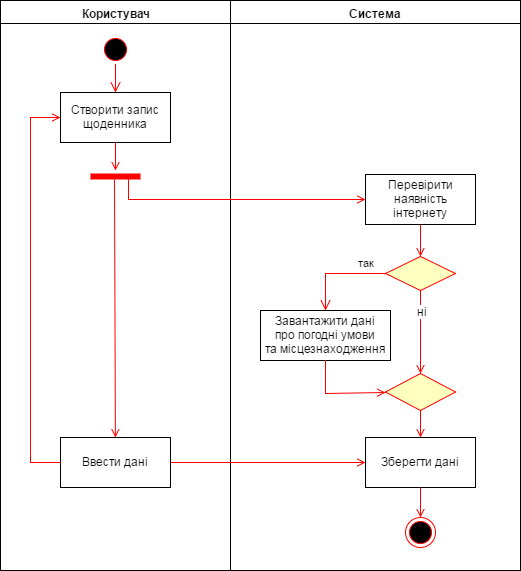
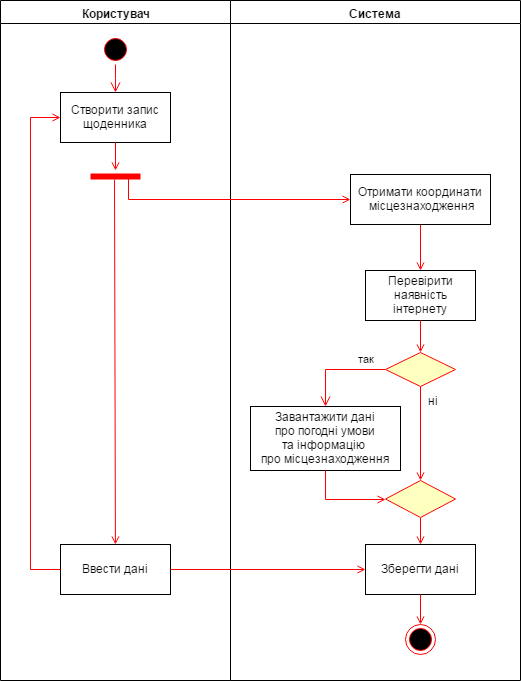
merged sections 2 and 3. genius genius GENIUS

diff --git a/sections/2-3.tex b/sections/2-3.tex
@@ -1,0 +1,251 @@
+\documentclass[../main.tex]{subfiles}
+
+\begin{document}
+
+\chapter{АНАЛІЗ І ПРОЕКТУВАННЯ ANDROID-ЩОДЕННИКА ДЛЯ МАНДРІВНИКІВ}
+
+\section{Формування та аналіз вимог до Android-щоденника мандрівника}
+
+\subsection{Формування вимог до Android-щоденника для мандрівників}
+
+Розглянувши існуючі на цей час програмні продукти, такі як~щоденники для мандрівників, проаналізувавши їх, та виявивши як~позитивні так і негативні сторони, можна сформувати задачі розробки. В~узагальненому вигляді такою задачею є створення додатку, що буде забезпечувати можливість ведення щоденнику, запису треку переміщень та~планування поїздок.
+
+При проектуванні програмного продукту необхідно забезпечити наступні можливості:
+\begin{enumerate}
+	\item Авторизація за допомогою облікового запису Google.
+	\item Можливість створення подорожі.
+	\item Можливість створення записів щоденника.
+	\item Можливість створення записів планувальника.
+	\item Можливість встановлення нагадувань.
+	\item Можливість запису треку переміщень.
+\end{enumerate}
+
+\subsection{Аналіз вимог до Android-щоденника мандрівника}
+
+Аналіз вимог є частиною процесу розробки програмного забезпечення, що включає в себе збір вимог щодо програмного забезпечення, їх систематизацію, виявлення взаємозв'язків, а також документування.
+
+Авторизація за допомогою облікового запису Google.
+Для того, щоб користувач мав доступ тільки до своїх даних, та мав можливість синхронізації з іншими пристроями, він повинен мати свій обліковий запис в базі даних. Оскільки в якості бази даних використовується Firebase, маємо такі варіанти авторизації користувачів: 
+\begin{itemize}[label={--}]
+	\item за допомогою соціальних мереж (Google, Facebook, Twitter);
+	\item за допомогою акаунта GitHub;
+	\item за допомогою адреси електронної пошти;
+	\item анонімна авторизація.
+\end{itemize}
+
+Майже всі користувачі Android-пристроїв мають акаунт Google, тому було вирішено використовувати саме цей метод авторизації. В майбутньому можуть бути додані будь-які інші методи авторизації.
+
+%Можливість створення подорожі.
+Оскільки розроблюваний додаток є щоденником для мандрівників, користувач повинен мати змогу створювати подорожі. Створені подорожі слугують категоріями, в яких можуть знаходитися записи щоденника та планувальника. Також трек переміщень пов'язаний з певною мандрівкою.
+
+%Можливість створення записів щоденника.
+Користувач, який встановив Android-щоденник, очікує від нього можливість ведення цього щоденника, тому однією з головних вимог такого додатку є змога створення записів у щоденнику. Для створення запису, користувачу не~обов'язково потрібно мати створені подорожі. Записи без вказаної подорожі будуть розміщуватися в загальному щоденнику.
+
+%Можливість створення записів планувальника.
+Важливим пунктом для мандрівників є планування поїздок, тому користувач повинен мати змогу створювати записи планувальника, в яких він зможе описати все, що йому потрібно зробити при плануванні подорожі.
+
+%Можливість встановлення нагадувань.
+При підготовці до подорожі важливо не забути завершити заплановані справи та зібрати необхідні речі чи документи, тому користувач повинен мати змогу встановлювати нагадування для записів планувальника. Нагадування можуть бути встановлені на конкретний час, чи по приближенню до~вказаного місця.
+
+%Можливість запису треку переміщень.
+Користувач повинен мати змогу записувати трек свого переміщення. Це допоможе не забути якими маршрутами він рухався, та  які місця відвідав. Запис треку можливий при наявності активної подорожі. Для забезпечення цієї вимоги необхідно передбачити механізм запису місцезнаходження користувача в період його подорожі до бази даних.
+
+%\subsection{Об'єктний аналіз вимог Android-щоденника для мандрівників}
+\subsection{Формування вимог до Android-щоденника за допомогою діаграми прецедентів}
+
+На основі визначених вимог було побудовано діаграму прецедентів (див. рис. \ref{diagram:usecase}), яка дозволить отримати візуальне уявлення про вимоги користувачів.
+
+Користувач повинен мати можливість авторизуватися в додатку за~допомогою акаунту Google, після авторизації, дані про нього зберігаються до бази даних. Також, користувач повинен мати змогу створювати подорожі, після чого йому відкривається можливість запису треку переміщень, та записи щоденника. При створенні запису планувальника повинна бути можливість встановлення нагадування.
+
+\begin{figure}[H]
+	\centering
+	\includegraphics[width=1\textwidth]{diagram_usecase}
+	\caption{Механізм роботи з додатком у вигляді діаграми прецедентів}
+	\label{diagram:usecase}
+\end{figure}
+
+%% TODO а воно точно нормальний вигляд має на папері? Такі ігри з кольорами часто потім мають препаршивий вигляд на папері, та й взагалі не~рекомендується перевантажувати дипломну хитрими форматуваннями
+
+%% TODO хоч я і паршиво для керівника дипломної роботи знаю ці діаграми, але факт, що акторами повинні бути лише зовнішні щодо розроблюваної системи чинники я все-таки знаю точно. До такого ТОЧНО ПРИЧЕПЛЯТЬСЯ. Якщо точно-точно нема користувачів з різними правами доступу щоб робити їх різними акторами, то, мабуть, треба зробити іншими акторами звернення до сторонніх систем... Хоча це краще ще десь уточнити.
+
+
+\subsection{Формування та аналіз вимог до Android-щоденника за допомогою діаграми діяльності}
+На основі первинних вимог були розроблені наступні детальні вимоги:
+\begin{enumerate}
+	\item Надати можливість редагувати подорож.
+	\item Надати можливість видаляти подорож.
+	\item Надати можливість редагувати запис щоденника.
+	\item Надати можливість видаляти запис щоденника.
+	\item Надати можливість редагувати запис планувальника.
+	\item Надати можливість видаляти запис планувальника.
+	\item Надати можливість додавати зображення до запису щоденника.
+	\item Надати можливість переглядати карту з треком і мітками.
+	\item Надати можливість обирати подорож для запису щоденника та~планувальника.
+	\item Надати можливість встановлювати активну подорож.
+	\item Надати можливість синхронізувати дані між пристроями.
+	\item Надати можливість ділитися записами щоденника через інші додатки.
+	\item Надати можливість ділитися окремими зображеннями з запису щоденника через інші додатки.
+	\item Надати можливість додавати списки з прапорцями в запис планувальника.
+	\item Надати можливість системі автоматично завантажувати дані про погодні умови та місцезнаходження при створенні запису щоденника.
+\end{enumerate}
+
+Моделюючи поведінку системи, яка проектується або проводиться її~аналіз, постає необхідність деталізувати особливості алгоритмічної і логічної реалізації виконуваних системою операцій. Для такого моделювання в мові UML використовуються діаграми діяльності.
+
+У контексті мови UML діяльність (activity) є деякою сукупністю окремих обчислень, що виконуються автоматом. При цьому окремі елементарні обчислення можуть наводити до деякого результату або дії (action). На діаграмі діяльності відображається логіка або послідовність переходу від однієї діяльності до іншої, при цьому увага фіксується на~результаті діяльності. Сам же результат може привести до зміни стану системи або повернення деякого значення.
+
+Діаграма діяльності створення нового запису щоденника, що~відображає поведінку проектованого додатка, подана на рис. \ref{diagram:activity}.
+
+\begin{figure}[H]
+	\centering
+	\includegraphics[width=0.8\textwidth]{diagram_activity}
+	\caption{Механізм створення запису щоденника у вигляді діаграми діяльності}
+	\label{diagram:activity}
+\end{figure}
+
+В процес створення запису щоденника залучений як користувач, так і~система. Після того, як користувач вирішує створити новий запис, система отримує координати місцезнаходження користувача, та, при наявності інтернет з'єднання, завантажує інформацію про місцезнаходження та дані про погодні умови в цьому місці. Після введення користувачем потрібних йому даних, та завершення створення запису, дані зберігаються.
+
+\subsection{Аналіз вимог до Android-щоденника мандрівника за допомогою діаграми послідовності}
+На базі отриманих даних, і заради детальнішого моделювання була розроблена діаграма послідовностей для процесу сотворення запису планувальника та встановлення нагадування.
+
+На діаграмі послідовності об’єкт зображується у вигляді прямокутника на вершині пунктирної вертикальної лінії. Ця вертикальна лінія називається лінією життя об’єкту. Вона є фрагментом життєвого циклу об’єкту в процесі взаємодії. Кожне повідомлення представляється у вигляді стрілки між лініями життя двох об’єктів. Повідомлення з’являються в тому порядку, як вони показані на діаграмі (зверху вниз). Кожне повідомлення може бути позначене ім’ям.
+
+\begin{figure}[H]
+	\centering
+	\includegraphics[width=0.85\textwidth]{diagram_sequence}
+	\caption{Діаграма послідовності створення запису планувальника та~встановлення нагадування}
+	\label{diagram:sequence}
+\end{figure}
+
+Як видно з діаграми послідовності (див. рис. \ref{diagram:sequence}), після створення нагадування, дані записуються до бази даних та відбувається встановлення будильників у системі. 
+
+\subsection{Аналіз вимог до Android-щоденника за допомогою діаграми комунікації}
+Діаграми комунікації відображають взаємодію ролей або об'єктів у~процесі функціонування системи, описують обмін даними (повідомленнями) між різними учасниками взаємодії. Такі діаграми моделюють сценарії поведінки системи~\cite{diploma_guidelines}. 
+
+Діаграма комунікації для процесу перегляду подорожі та створення запису щоденника зображена на рис. \ref{diagram:communication}.
+
+\begin{figure}[H]
+	\centering
+	\includegraphics[width=1\textwidth]{diagram_communication}
+	\caption{Механізм перегляду подорожей та записів щоденника у~вигляді діаграми комунікації}
+	\label{diagram:communication}
+\end{figure}
+
+При виборі користувачем подорожі чи запису щоденника, дані завантажуються з бази даних, та відображаються користувачеві. Також, знаходячись на екрані перегляду подорожі, користувач може вирішити створити запис щоденника для цієї подорожі.
+
+\section{Об’єктно-орієнтоване проектування Android-щоденника мандрівника}
+
+\subsection{Архітектурне проектування Android-щоденника для мандрівників}
+Формування архітектури – перший і основний крок у розв’язанні завдання проектування, що закладає фундамент уявлення програмної системи, здатної виконувати весь спектр детальних вимог~\cite{diploma_guidelines2}.
+
+Створення архітектури – це проектування на найвищому рівні (логічна архітектура). Логічна архітектура описує систему в термінах її~принципової організації у вигляді пакетів, програмних класів і підсистем. Вона називається логічною, оскільки не визначає способи розгортання цих елементів у різних операційних системах або на фізичних комп’ютерах в~мережі (це відноситься до архітектури розгортання)~\cite{diploma_guidelines}.
+
+Система Android надає різнобічну платформу додатків, на основі якої можна створювати інноваційні програми та ігри для мобільних пристроїв в~середовищі мови Java. Важливо знати наступні основні концепції, що~стосуються платформи додатків Android.
+
+Додатки мають кілька точок входу.
+Додатки для Android будуються з окремих компонентів, які можна викликати незалежно один від одного. Наприклад, окрема активність надає один екран для користувацького інтерфейсу, а служба незалежно виконує роботу у~фоновому режимі.
+
+За допомогою об'єкта Intent з одного компонента можна запустити інший. Також можна запустити компонент з іншої програми, наприклад, активність з картографічного додатка, щоб показати адресу. Ця модель формує кілька точок входу для однієї програми, і при цьому користувач може вибрати будь-який додаток за замовчуванням для виконання тієї чи~іншої дії, яка може викликати інші додатки.
+
+Додатки адаптуються до різних пристроїв.
+Android надає адаптивну платформу додатків, яка дозволяє забезпечувати унікальні ресурси для різних конфігурацій пристроїв. Наприклад, можна створити різні файли \mbox{XML-макета} для екранів різних розмірів, а система буде визначати, який макет використовувати, з урахуванням розміру екрану даного пристрою.
+
+Якщо якимось функціям програми потрібне певне обладнання, наприклад камера, можна запитувати його наявність в пристрої під час виконання. При необхідності також можна оголошувати функції, які потрібні додатку, для того, щоб такі магазини додатків, як Google Play, не~дозволяли встановлювати додатки на пристроях, в яких цих функцій немає~\cite{android_4}.
+
+Одним з важливих етапів архітектурного проектування є побудова діаграми пакетів. Діаграма пакетів є діаграмою, яка містить пакети класів і~залежності між ними. Вона описує архітектурну основу системи та~допомагає в управлінні масштабами й складністю системи. 
+
+\begin{figure}[h]
+	\centering
+	\includegraphics[width=1\textwidth]{diagram_packages}
+	\caption{Діаграма пакетів для Android-щоденника}
+	\label{diagram:packages}
+\end{figure}
+
+%«»
+
+Пакет «adapters» призначений для адаптерів. Адаптер -- це об'єкт, що~діє як міст між представленням (view) і даними для цього представлення. Він забезпечує доступ до елементів даних. Також, адаптер відповідальний за~подання представлення для кожного елемента в наборі даних~\cite{adapter}. 
+
+В пакеті «models» будуть знаходитися класи моделей, що необхідні для взаємодії з базою даних чи іншими сервісами. Пакет «screens» призначений для класів активностей, що являють собою окремі екрани додатку, тому в~нього були додані додаткові пакети, щоб розділити екрани по областях, за~які вони відповідають. Пакет «services» буде містити служби, а пакети «ui», «bus» та «interfaces» -- компоненти, що відповідають за інтерфейс користувача, шину подій та Java інтерфейси відповідно. Для детальної діаграми пакетів додатка~див.~рис.~\ref{diagram:packages}.
+
+%\subsection{Побудова діаграми компонентів}
+Ще одним будівельним блоком для створення архітектури \mbox{об'єктно-орієнтованої} системи вважається компонент. Діаграма компонентів показує розбиття програмної системи на структурні компоненти та залежності між компонентами. В якості фізичних компонентів можуть бути файли, бібліотеки, модулі, виконувані файли, пакети і т.п. У багатьох середовищах розробки модуль або компонент відповідає файлу. Стрілки, що з'єднують модулі, показують відносини взаємозалежності аналогічні тим, які мають місце при компіляції вихідних текстів програм. Основними графічними елементами діаграми компонентів є компоненти, інтерфейси й залежності між ними. 
+
+Клас «Application» є базовим класом для підтримки глобального стану програми. Для того, щоб надати йому власну реалізацію, потрібно створити підклас і вказати його повне ім'я в файлі маніфесту. В нашому випадку таким підкласом є «App». Він створюється в першу чергу, до того, як процес для додатка/пакета створиться.
+
+Активності, яким потрібна однакова базова логіка, наслідуються від класу «BaseActivity». Всі сервіси додатку наслідуються від класу «Service» або «IntentService» та мають бути вказані в файлі маніфесту. Детальну структуру компонентів додатку зображено на рис. \ref{diagram:hierarchy}.
+%  (стор.~\pageref{diagram:hierarchy})
+
+% \begin{figure}[H] % TODO думаю, тут все-таки краще спочатку пустити далі текст, далі розмістити рисунок. Дозволяє позбутися надто великих вертикальних дірок, вимогами розд.6.4 цілком допускається, і насправді активно використовується у практиці верстки взагалі.
+\begin{figure}[p]
+	\centering
+	\includegraphics[width=0.8\textwidth]{diagram_hierarchy}
+	\caption{Діаграма компонентів Android-щоденника}
+	\label{diagram:hierarchy}
+\end{figure}
+
+\subsection{Детальне проектування Android-щоденника мандрівника}
+Функціонально, додаток складається з наведених нижче модулів (активностей та фрагментів). Активність є схемою представлення Android-додатків. Кожен екран користувацькокого інтерфейсу представлений класом «Activity» і по суті є окремою формою додатка. Android-додаток може складатися з декількох активностей і може перемикатися між ними під час виконання програми. 
+
+Фрагмент (клас «Fragment») представляє поведінку або частину користувацького інтерфейсу в активностях. Можливе об'єднання кількох фрагментів в одній активності для побудови багатопанельного інтерфейсу та повторного використання фрагмента в декількох активностях. Фрагмент можна розглядати як модульну частину активності. Така частина має свій життєвий цикл і самостійно обробляє події введення. Крім того, її можна додати або видалити безпосередньо під час виконання активності. Це щось на зразок вкладеної активності, яку можна багаторазово використовувати в~різних активностях.
+
+При запуску додатку, користувач потрапляє на активність авторизації. Вона містить логотип, назву додатку та кнопку авторизації, пісня натиснення якої  користувачеві пропонується вибрати один з уже існуючих чи додати новий Google акаунт. Пісня успішної авторизації користувач потрапляє на~головний екран додатку.
+
+Головний екран містить бокове меню (Navigation Drawer), яке містить три категорії: подорожі, щоденник та планувальник. При виборі категорії фрагмент, що знаходиться в цій активності, замінюється на той, що~відповідає цій категорії. За замовчуванням обрана категорія «подорожі», тому головна активність містить фрагмент зі списком подорожей. При виборі категорії «щоденник» чи «планувальник», цей фрагмент замінюється на фрагмент зі списком записів щоденника чи планувальника відповідно. При виборі елементу зі списку, відбувається перехід до відповідних активностей.
+
+Активність подорожі відкривається при виборі подорожі зі списку. Вона містить сторінки на яких відображаються фрагмент зі списком записів щоденника, фрагмент зі списком записів планувальника та фрагмент з~картою. З меню, що міститься в цій активності, можливий перехід до~активності редагування подорожі.
+
+Активність запису щоденника містить текст запису, список прикріплених фото та інформацію про погодні умови та місце створення запису. Для перегляду всіх прикріплених фото відкривається нова активність, що містить список цих фото. Також можливе редагування чи видалення запису. Активність запису планувальника слугує для його перегляду та редагування.
+
+Фрагмент, що містить карту відображається на одній зі сторінок в~активності подорожі. На цій карті зображується записаний трек переміщень та мітки, які можуть означати початок чи кінець треку та запис щоденника чи планувальника. Фрагменти зі списками подорожей, записів щоденника чи планувальника завантажують відповідну інформацію з бази даних та на підставі отриманих даних формують динамічний список об'єктів за допомогою адаптеру «FirebaseRecyclerAdapter».
+
+Діаграма активностей та фрагментів розроблюваного додатка представлена на рис. \ref{diagram:activities}.
+
+\begin{figure}[H]
+	\centering
+	\includegraphics[width=1\textwidth]{diagram_activities}
+	\caption{Діаграма активностей та фрагментів}
+	\label{diagram:activities}
+\end{figure}
+
+Для того, щоб додаток міг взаємодіяти з базою даних, зберігати та~зчитувати дані, потрібно спроектувати моделі для необхідних об'єктів. Основними об'єктами є подорож, запис щоденника та планувальника.
+
+Подорож повинна мати назву, опис, час створення, початку та~завершення, а також індикатор, який вказує активна вона чи ні. Додатково містяться поля для обкладинки подорожі. У записі щоденника буде міститися назва, текст, список фото, а також час створення та~інформація про погодні умови і місце створення запису. Запис планувальника також буде містити назву та текст, відмітку про виконання та відомості про нагадування, такі як час та дата чи місце нагадування.
+
+Для збереження інформації про погоду було створено модель, яка містить поля для температури, тиску та інших погодних параметрів. Для збереження інформації про місцезнаходження для запису щоденника, було створено модель, що містить назву країни, міста, вулиці та інші відомості про це місце. Для запису треку переміщень необхідно зберігати координати користувача з деякою періодичністю. Для цього було створено модель, що~містить мапу, ключем в якій є час, а значенням -- координати користувача.
+
+Детальна діаграма моделей для додатка зображена на рис.~\ref{diagram:models} (стор.~\pageref{diagram:models}).
+
+\subsection{Розгортання програмної системи на апаратних засобах}
+Оскільки при розробці викорисловувалися сервіси Firebase, система може бути розгорнута під будь-яку платформу, що підтримує Firebase (Web, iOS, Unity та ін.). За темою роботи проводилася розробка Android клієнту. Діаграму розгортання системи представлено на рис. \ref{diagram:deployment}.
+
+Для функціонування додатку необхідна операційна система Android версії 4.2 (API 16) і вище.
+
+\begin{figure}[H]
+	\centering
+	\includegraphics[width=0.8\textwidth]{diagram_deployment}
+	\caption{Діаграма розгортання системи}
+	\label{diagram:deployment}
+\end{figure}
+
+\section{Висновки до другого розділу}
+
+У цьому розділі було сформовано вимоги до Android-щоденника на~основі результатів аналізу існуючих програмних продуктів. На основі сформованих вимог було побудовано діаграму прецедентів та визначено  детальні вимоги. Детальні вимоги відображають функції, якими необхідно наділити систему для забезпечення повного функціонування.
+
+Також, було проведено аналіз вимог за допомогою діаграм діяльності, послідовності та комунікації, які допомагають отримати додаткове уявлення про сформовані вимоги.
+
+Результатом роботи над даним розділом є формування та створення архітектури, що є основними кроками у розв'занні завдання проектування. Вони закладають фундамент програмної системи, описують систему в~термінах її принципової організації у вигляді пакетів, програмних класів і~підсистем.
+
+\newpage
+Також, було проаналізовано основні концепції платформи Android додатків. Було побудовано діаграму пакетів, на якій відображено пакети та зв'язки між ними, та діаграму компонентів, яка показує розбиття програмної системи на структурні компоненти та залежності між ними.
+
+Проведено детальне проектування системи, створено діаграму взаємодії активностей додатку та діаграму моделей. Також описано розгортання системи на апаратних засобах, розроблено схему розгортання та описано необхідні засоби для функціонування додатку.
+
+%%TODO: dont know how to skip pages
+\begin{figure}[pt] %% TODO див. позаминулий рисунок
+	%% \begin{figure}[H]
+	\centering
+	\includegraphics[width=1\textwidth]{diagram_models}
+	\caption{Діаграма моделей Android-щоденника}
+	\label{diagram:models}
+\end{figure}
+
+\end{document}

diff --git a/sections/2.tex b/sections/2.tex
@@ -59,7 +59,7 @@
 	\centering
 	\includegraphics[width=1\textwidth]{diagram_usecase}
 	\caption{Механізм роботи з додатком у вигляді діаграми прецедентів}
-	\label{diagram:usecase}
+%	\label{diagram:usecase}
 \end{figure}
 
 %% TODO а воно точно нормальний вигляд має на папері? Такі ігри з кольорами часто потім мають препаршивий вигляд на папері, та й взагалі не~рекомендується перевантажувати дипломну хитрими форматуваннями
@@ -97,7 +97,7 @@
 	\centering
 	\includegraphics[width=0.9\textwidth]{diagram_activity}
 	\caption{Механізм створення запису щоденника у вигляді діаграми діяльності}
-	\label{diagram:activity}
+%	\label{diagram:activity}
 \end{figure}
 
 В процес створення запису щоденника залучений як користувач, так і~система. Після того, як користувач вирішує створити новий запис, система, при наявності інтернет з'єднання, завантажує дані про місцезнаходження користувача на момент створення запису та дані про погодні умови в цьому місці. Після введення користувачем потрібних йому даних, та завершення створення запису, дані зберігаються.
@@ -111,7 +111,7 @@
 	\centering
 	\includegraphics[width=0.9\textwidth]{diagram_sequence}
 	\caption{Діаграма послідовності створення запису планувальника та~встановлення нагадування}
-	\label{diagram:sequence}
+%	\label{diagram:sequence}
 \end{figure}
 
 Як видно з діаграми послідовності (див. рис. \ref{diagram:sequence}), після створення нагадування, дані записуються до бази даних та відбувається встановлення будильників у системі. 
@@ -125,7 +125,7 @@
 	\centering
 	\includegraphics[width=1\textwidth]{diagram_communication}
 	\caption{Механізм перегляду подорожей та записів щоденника у~вигляді діаграми комунікації}
-	\label{diagram:communication}
+%	\label{diagram:communication}
 \end{figure}
 
 При виборі користувачем подорожі чи запису щоденника, дані завантажуються з бази даних, та відображаються користувачеві. Також, знаходячись на екрані перегляду подорожі, користувач може вирішити створити запис щоденника для цієї подорожі.

diff --git a/main.tex b/main.tex
@@ -136,8 +136,9 @@
 \tableofcontents
 \subfile{sections/0_intro}
 \subfile{sections/1}
-\subfile{sections/2}
-\subfile{sections/3}
+%\subfile{sections/2}
+\subfile{sections/2-3}
+%\subfile{sections/3}
 \subfile{sections/4}
 \subfile{sections/conclusion}
 
